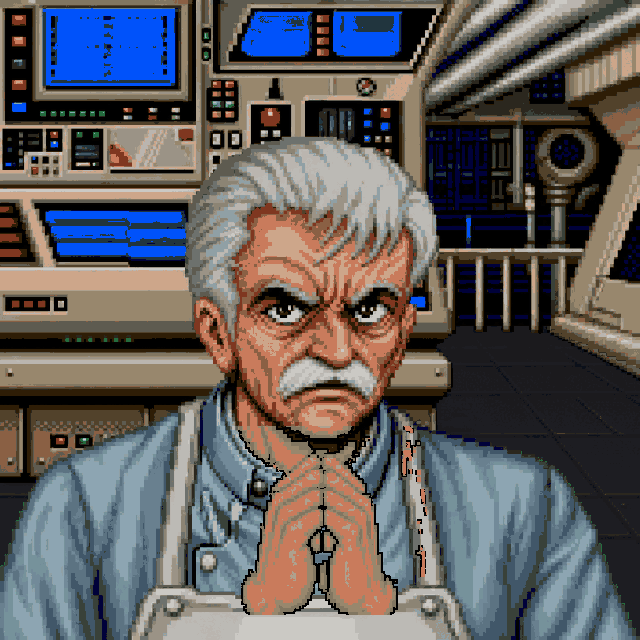
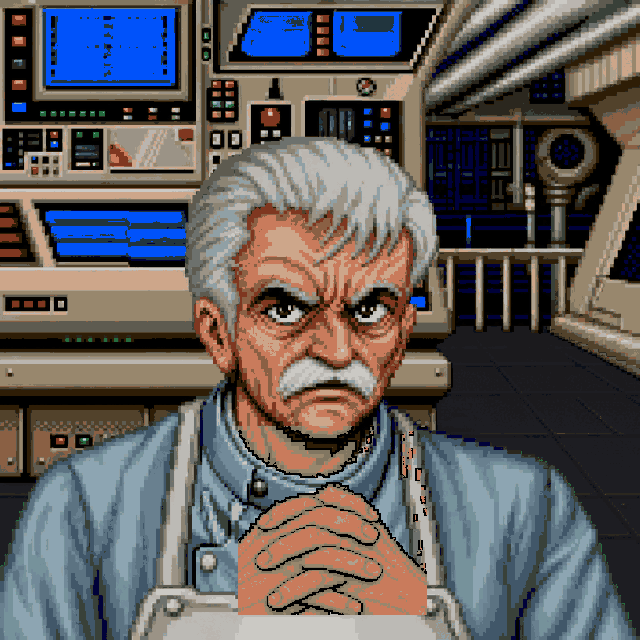
크러셔를 레일에 올리고, 납품 반영이 맞는 그림을 덮어쓰던 것을 막는다
레일
  크러셔는 걷지 않는다. 원작 조립도를 보면 가로 대들보에 세로 기둥이 매달리고
  그 끝에 헤드가 달린다 - 갠트리 크레인이라 좌우로만 미끄러진다.
  다가와서 때리는 보스로 두면 첫 보스가 그냥 큰 잡몹이 된다.

  · RailBosses 에 crusher 하나. 처음 선 높이가 곧 레일 높이다
    (숫자를 적어 두면 방 크기가 바뀔 때 한쪽만 낡는다)
  · 이동 경로가 접근/돌진/패턴으로 갈라져 있어 들어가는 자리를 다 막는 대신
    나가는 자리 한 곳(StayOnRail)에서 높이를 되돌린다. 새 이동이 생겨도 안 샌다

납품 반영이 새던 두 곳 - 실제로 돌려 보고 잡았다
  1) IsSuperseded 가 unit_crusher_s.png 처럼 확장자 붙은 이름을 받는데
     이름을 통째로 비교하는 규칙은 조용히 안 걸렸다. StartsWith 규칙들이
     우연히 걸리고 있어서 안 보였다. 함수 안에서 한 번 벗긴다.
     - 이 버그로 폐기된 61차 크러셔가 맞는 그림을 실제로 덮어썼다
  2) 컷신 폐기 목록이 CutsceneImporter 와 ExchangeImporter 두 곳에 갈려 있어
     한쪽만 알고 있었다. 폐기한 컷 5장(start_3/6/7/8/9)이 반영 때마다 되살아났다.
     CutsceneImporter.IsRetired 를 단일 출처로 삼고 반영 툴이 그것을 묻는다

  검증 - 반영을 다시 돌려서 확인
    크러셔 md5 112f3863 유지 · 되살아난 폐기컷 0장 · 컷 15장 그대로

61차 납품 검수
  unit_crusher_s  폐기. 규격/알파/팔레트는 전부 맞았으나 발주가 틀렸다.
                  원작 Body 조각을 확대하면 파란 창 둘·격자 이빨 주황 아치·
                  주황 램프가 다 있다. 지금 것이 그것을 정면으로 옮긴 정본이다
  cut_start_10    반영. 손이 이번엔 실제로 그려졌다(깍지·엄지·손등 마디)
                  남은 것 둘 - 살색이 단 1단계라 평면이고(얼굴은 2단계 이상),
                  편집 사각형 경계가 그대로 보인다(좌 58줄·우 29줄·하 91칸)

diff --git a/Assets/Scripts/Module/InGame/BattleDirector.cs b/Assets/Scripts/Module/InGame/BattleDirector.cs
@@ -2349,6 +2349,11 @@ namespace Game.Module.InGame
                 boss.SetTellSprite(UnitGet(bossKey, "s_tell") ?? UnitGet(BossStand(bossKey), "s_tell"));
                 boss.Position = canon ? ToPixels(_canonRoom.BossAt)
                                       : new Vector2(_roomSize.x * 0.5f, -_roomSize.y * 0.14f);
+
+                // 레일 보스는 **처음 선 높이**가 곧 레일 높이다. 숫자를 따로 적지 않는다 —
+                // 적어 두면 방 크기가 바뀔 때 한쪽만 낡는다.
+                _bossOnRail = RailBosses.Contains(bossKey);
+                _bossRailY = boss.Position.y;
                 _enemies.Add(boss);
                 _boss = boss;
                 _brain.Setup(def);
@@ -3156,7 +3161,7 @@ namespace Game.Module.InGame
                 //
                 //   기준점은 `Avatar` 다 — 몸이 있으면 그 몸, 없으면 유령.
                 //   보스는 "지금 내가 서 있는 자리" 를 겨눈다.
-                if (e.IsBoss) { TickBoss(e, Avatar, dt); continue; }
+                if (e.IsBoss) { TickBoss(e, Avatar, dt); StayOnRail(e); continue; }
 
                 // ⚠ **몸이 없으면 아무도 유령을 표적으로 잡지 않는다.**
                 if (_host == null)
@@ -4168,6 +4173,28 @@ namespace Game.Module.InGame
         ///
         /// ⚠ 없는 세트는 `EnvSprite` 가 알아서 기본형으로 떨어뜨린다. 여기서 걱정하지 않는다.
         /// </summary>
+        // ── 레일 보스 ────────────────────────────────────────────
+        //
+        // 크러셔는 **걷지 않는다.** 원작 시트의 조립도를 보면 가로 대들보에 세로 기둥이
+        // 매달리고 그 끝에 헤드가 달린다 — 갠트리 크레인이라 좌우로만 미끄러진다.
+        // 다가와서 때리는 보스로 만들면 첫 보스가 그냥 큰 잡몹이 된다.
+        //
+        // ⚠ 이동 경로가 한 곳이 아니다(접근·돌진·패턴). 들어가는 자리를 다 막는 대신
+        //   **나가는 자리 한 곳**에서 높이를 되돌린다. 새 이동이 생겨도 안 샌다.
+        private static readonly HashSet<string> RailBosses = new() { "crusher" };
+
+        private bool _bossOnRail;
+        private float _bossRailY;
+
+        /// <summary>레일 보스를 제 높이에 붙들어 둔다. 가로로는 자유롭다.</summary>
+        private void StayOnRail(Unit boss)
+        {
+            if (!_bossOnRail || boss == null) return;
+            var p = boss.Position;
+            if (Mathf.Approximately(p.y, _bossRailY)) return;
+            boss.Position = new Vector2(p.x, _bossRailY);
+        }
+
         private static string BossEnvOf(string slug) => slug switch
         {
             "crusher"      => "junkyard",

diff --git a/Assets/Scripts/Editor/ExchangeImporter.cs b/Assets/Scripts/Editor/ExchangeImporter.cs
@@ -101,6 +101,15 @@ namespace Game.EditorTools
         /// </summary>
         private static bool IsSuperseded(string name)
         {
+            // ⚠ 부르는 쪽이 `unit_crusher_s.png` 처럼 **확장자를 붙여** 넘긴다.
+            //   아래 규칙은 대부분 `StartsWith` 라 그래도 걸렸지만, 이름을 통째로
+            //   비교하는 규칙은 조용히 안 걸린다 — 실제로 크러셔가 그렇게 새 나갔다.
+            //   여기서 한 번 벗겨 두면 어느 방식으로 적어도 걸린다.
+            name = Path.GetFileNameWithoutExtension(name);
+
+            // 컷신 폐기 목록은 `CutsceneImporter` 가 단일 출처다. 여기 또 적지 않는다.
+            if (CutsceneImporter.IsRetired(name)) return true;
+
             // 빙의 자세는 **방향이 없다**(19차 정정). `_s_possess` 같은 방향형은 폐기본이고
             // `_possess1` · `_possess2` 두 장만 쓴다.
             if (name.StartsWith("unit_") && name.Contains("_possess")
@@ -111,6 +120,17 @@ namespace Game.EditorTools
             // 혼자 두 배로 불린다(8 MB → 32 MB). 지워도 이 폴더에 남아 있어서
             // 툴을 돌릴 때마다 되살아났다 — 여기서 끊는다.
             if (name.StartsWith("loadingbackground")) return true;
+
+            // 61차 크러셔 본체는 **발주가 틀려서** 폐기됐다.
+            //
+            // 「크러셔는 얼굴이 없다」로 발주했는데, 원작 시트의 `Body` 조각을 확대하면
+            // 파란 창 둘 · 격자 물린 주황 아치 입 · 위쪽 주황 램프가 다 있다.
+            // 지금 `BaseResource/Unit/crusher/` 에 있는 것이 그것을 정면으로 옮긴 정본이다.
+            // 막지 않으면 툴을 돌릴 때마다 **맞는 그림을 틀린 그림이 덮어쓴다.**
+            //
+            // ⚠ 크러셔 본체를 다시 받게 되면 **이 줄을 지운다.** 이유가 사라지면 규칙도 간다
+            //   (`roomfloor_python` 때와 같다 — 아래 참조).
+            if (name == "unit_crusher_s") return true;
 
             // 방 바닥은 `BundleResource/RoomFloor/` 가 정본이다. `BaseResource` 쪽 사본은
             // 아틀라스에 들어가 자리만 먹었다.

diff --git a/Assets/Scripts/Editor/CutsceneImporter.cs b/Assets/Scripts/Editor/CutsceneImporter.cs
@@ -30,6 +30,15 @@ namespace Game.EditorTools
         /// 폐기된 컷. 납품 폴더에는 남아 있지만 게임이 안 쓴다 —
         /// 관 안 유령을 본편 스프라이트로 바꾸면서 가리킬 자리가 없어졌다.
         /// </summary>
+        /// <summary>
+        /// 폐기된 컷인가. **납품 반영 툴(`ExchangeImporter`)도 이걸 묻는다.**
+        ///
+        /// ⚠ 목록을 두 곳에 두면 한쪽만 늘어난다 — 실제로 그랬다.
+        ///   여기서는 걸렀는데 납품 반영 쪽이 몰라서 폐기한 컷 다섯 장이 되살아났다.
+        /// </summary>
+        public static bool IsRetired(string nameWithoutExtension)
+            => Retired.Contains(nameWithoutExtension);
+
         private static readonly HashSet<string> Retired = new()
         {
             "cut_start_6", "cut_start_7", "cut_start_8", "cut_start_9",
